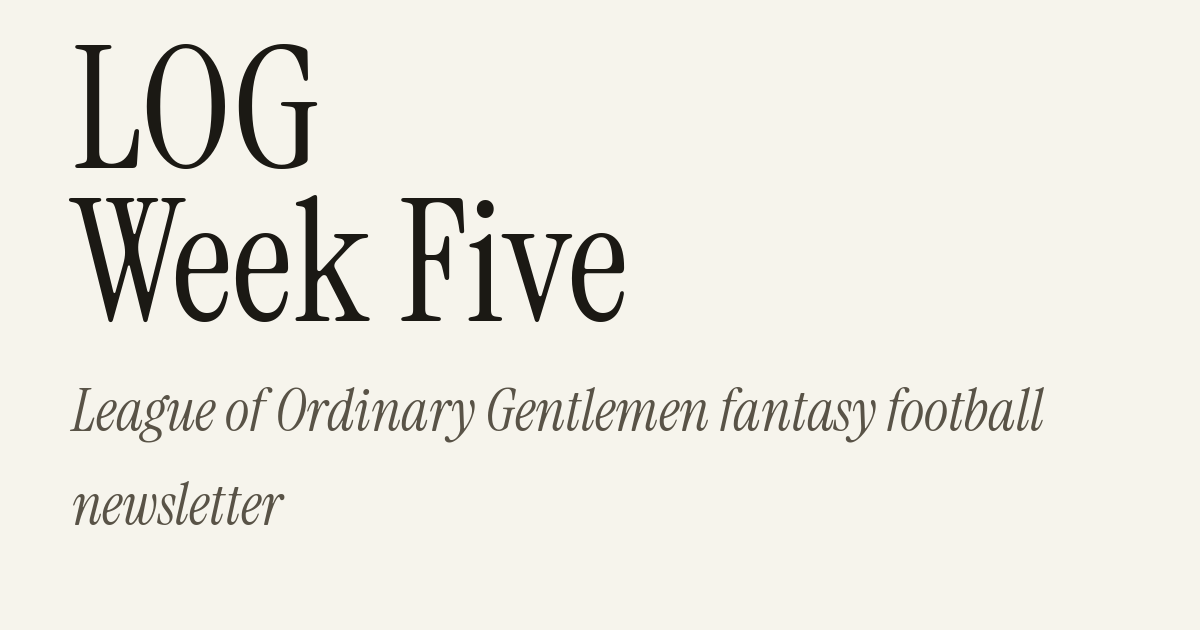
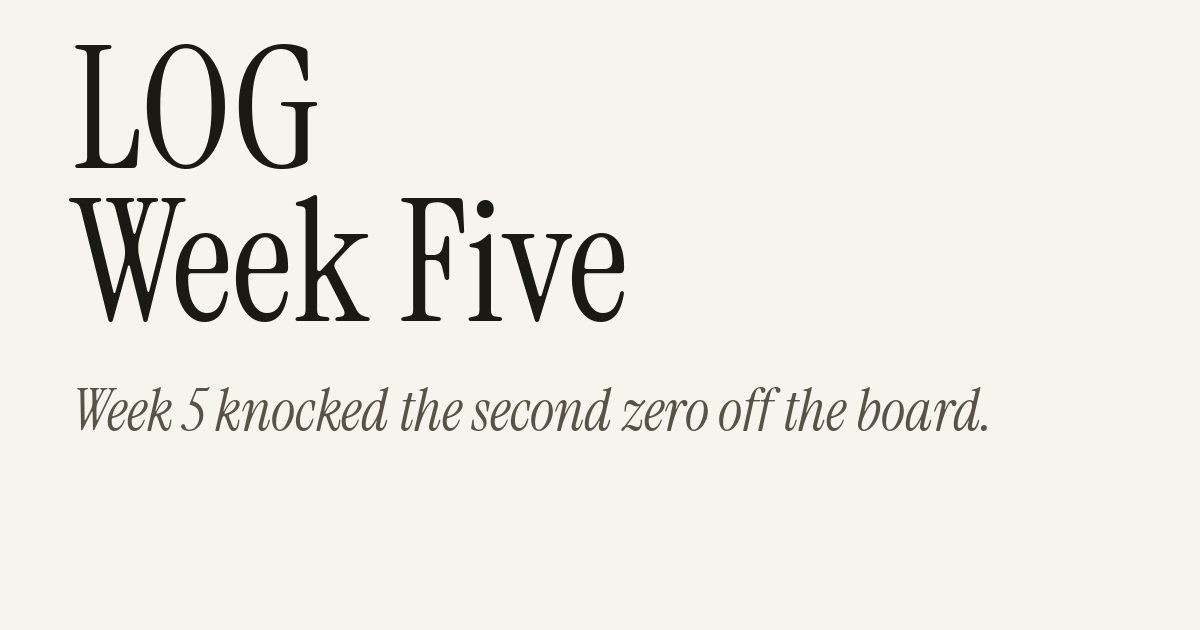
LOG OG cards: show each week's title line
The card keeps LOG / Week N and draws that week's title line under it,
read from log.ogTitleLine, then pullQuote, then log.pullQuote, then
log.lede. If all are blank, it falls back to the shared newsletter
subtitle. Weeks 1 through 9 are re-rendered.

Changed region(s): [[0.0617, 0.6032, 0.8633, 0.6937], [0.0617, 0.7841, 0.2467, 0.8444]]

diff --git a/scripts/render-log-og.py b/scripts/render-log-og.py
@@ -7,18 +7,28 @@ Commit the PNG so CI does not need fonts or network access.
 Usage:
   python3 scripts/render-log-og.py 2
 
+The italic line under "LOG / Week N" is that week's title line, read from
+the week's post front matter in this order: log.ogTitleLine, pullQuote,
+log.pullQuote, log.lede. If all are blank, the card uses the shared
+two-line newsletter subtitle.
+
 Requires Pillow (`pip install pillow`). Instrument Serif is vendored in
 scripts/fonts/ (SIL Open Font License, see OFL.txt). The week word comes
 from log-lib.js so the card matches the masthead.
 """
 
+from __future__ import annotations
+
 import argparse
+import re
 import subprocess
+import sys
 from pathlib import Path
 
 ROOT = Path(__file__).resolve().parents[1]
 FONT_DIR = ROOT / "scripts" / "fonts"
 OUT_DIR = ROOT / "src" / "assets" / "og"
+POSTS_DIR = ROOT / "src" / "posts"
 
 WIDTH = 1200
 HEIGHT = 630
@@ -28,9 +38,14 @@ INK = (0x1B, 0x19, 0x14)
 MUTED = (0x59, 0x53, 0x47)
 DISPLAY_SIZE = 170
 ITALIC_SIZE = 58
+ITALIC_MIN = 44
 LEFT = 72
+RIGHT = 72
+MAX_WIDTH = WIDTH - LEFT - RIGHT
 LOG_BASELINE = 168
 SUB_BASELINE = 430
+BOTTOM_PAD = 36
+MAX_LINES = 3
 SUBTITLE = (
     "League of Ordinary Gentlemen fantasy football",
     "newsletter",
@@ -55,7 +70,139 @@ def week_word(week: int) -> str:
     return word
 
 
-def render(week: int, out_path: Path) -> None:
+def unquote(value: str) -> str:
+    text = value.strip()
+    if len(text) >= 2 and text[0] == text[-1] and text[0] in ('"', "'"):
+        quote = text[0]
+        text = text[1:-1]
+        text = text.replace("\\" + quote, quote).replace("\\n", "\n")
+    return text.strip()
+
+
+def top_scalar(front_matter: str, key: str) -> str:
+    match = re.search(rf"^{re.escape(key)}:\s*(.*)$", front_matter, re.M)
+    if not match:
+        return ""
+    return unquote(match.group(1))
+
+
+def log_scalar(front_matter: str, key: str) -> str:
+    in_log = False
+    for line in front_matter.splitlines():
+        if re.match(r"^log:\s*$", line):
+            in_log = True
+            continue
+        if not in_log:
+            continue
+        if line and not line.startswith(" ") and not line.startswith("\t"):
+            in_log = False
+            continue
+        match = re.match(rf"^  {re.escape(key)}:\s*(.*)$", line)
+        if match:
+            raw = match.group(1).strip()
+            if raw in ("", "|", ">", ">-", "|-"):
+                return ""
+            return unquote(raw)
+    return ""
+
+
+def find_week_post(week: int) -> Path | None:
+    matches = sorted(POSTS_DIR.glob(f"*-log-week-{week}.md"))
+    if not matches:
+        return None
+    return matches[-1]
+
+
+def title_line_from_post(week: int) -> tuple[str, str]:
+    """Return (line, source). Source is the field name, or empty if fallback."""
+    path = find_week_post(week)
+    if path is None:
+        return "", "fallback"
+    text = path.read_text(encoding="utf-8")
+    if not text.startswith("---"):
+        return "", "fallback"
+    parts = text.split("---", 2)
+    if len(parts) < 3:
+        return "", "fallback"
+    front = parts[1]
+    candidates = (
+        (log_scalar(front, "ogTitleLine"), "log.ogTitleLine"),
+        (top_scalar(front, "pullQuote"), "pullQuote"),
+        (log_scalar(front, "pullQuote"), "log.pullQuote"),
+        (log_scalar(front, "lede"), "log.lede"),
+    )
+    for value, source in candidates:
+        if value:
+            return value, source
+    return "", "fallback"
+
+
+def text_width(font, text: str) -> int:
+    left, _top, right, _bottom = font.getbbox(text)
+    return right - left
+
+
+def greedy_wrap(text: str, font, max_width: int) -> list[str]:
+    words = text.split()
+    lines: list[str] = []
+    current = ""
+    for word in words:
+        trial = word if not current else f"{current} {word}"
+        if text_width(font, trial) <= max_width:
+            current = trial
+        else:
+            if current:
+                lines.append(current)
+            current = word
+    if current:
+        lines.append(current)
+    return lines
+
+
+def wrap_title(text: str, font, max_width: int) -> list[str]:
+    if text_width(font, text) <= max_width:
+        return [text]
+    if ", " in text:
+        idx = text.find(", ")
+        left = text[: idx + 1]
+        right = text[idx + 2 :]
+        if (
+            left
+            and right
+            and text_width(font, left) <= max_width
+            and text_width(font, right) <= max_width
+        ):
+            return [left, right]
+    return greedy_wrap(text, font, max_width)
+
+
+def layout_title(text: str):
+    from PIL import ImageFont
+
+    size = ITALIC_SIZE
+    while size >= ITALIC_MIN:
+        font = ImageFont.truetype(str(FONT_DIR / "InstrumentSerif-Italic.ttf"), size)
+        lines = wrap_title(text, font, MAX_WIDTH)
+        if len(lines) <= MAX_LINES and all(
+            text_width(font, line) <= MAX_WIDTH for line in lines
+        ):
+            return font, lines, size, False
+        size -= 2
+    font = ImageFont.truetype(str(FONT_DIR / "InstrumentSerif-Italic.ttf"), ITALIC_MIN)
+    lines = greedy_wrap(text, font, MAX_WIDTH)
+    truncated = False
+    if len(lines) > MAX_LINES:
+        kept = lines[:MAX_LINES]
+        last = kept[-1].rstrip()
+        while last and text_width(font, last + "...") > MAX_WIDTH:
+            last = last.rsplit(" ", 1)[0] if " " in last else last[:-1]
+        kept[-1] = (last + "...").rstrip()
+        lines = kept
+        truncated = True
+    return font, lines, ITALIC_MIN, truncated
+
+
+def render(week: int, out_path: Path) -> dict:
     try:
         from PIL import Image, ImageDraw, ImageFont
     except ModuleNotFoundError as error:
@@ -63,9 +210,6 @@ def render(week: int, out_path: Path) -> None:
 
     regular = ImageFont.truetype(
         str(FONT_DIR / "InstrumentSerif-Regular.ttf"), DISPLAY_SIZE
-    )
-    italic = ImageFont.truetype(
-        str(FONT_DIR / "InstrumentSerif-Italic.ttf"), ITALIC_SIZE
     )
     label = week_word(week)
     image = Image.new("RGB", (WIDTH, HEIGHT), BG)
@@ -78,16 +222,62 @@ def render(week: int, out_path: Path) -> None:
         fill=INK,
         anchor="ls",
     )
-    draw.text((LEFT, SUB_BASELINE), SUBTITLE[0], font=italic, fill=MUTED, anchor="ls")
-    draw.text(
-        (LEFT, SUB_BASELINE + round(ITALIC_SIZE * 1.62)),
-        SUBTITLE[1],
-        font=italic,
-        fill=MUTED,
-        anchor="ls",
-    )
+
+    line, source = title_line_from_post(week)
+    info = {
+        "week": week,
+        "source": source,
+        "line": line,
+        "size": ITALIC_SIZE,
+        "lines": [],
+        "shrunk": False,
+        "truncated": False,
+        "fallback": source == "fallback" or not line,
+    }
+
+    if line:
+        font, lines, size, truncated = layout_title(line)
+        ratio = 1.62 if len(lines) <= 2 else 1.35
+        advance = round(size * ratio)
+        _ascent, descent = font.getmetrics()
+        last_baseline = HEIGHT - BOTTOM_PAD - descent
+        first = last_baseline - advance * (len(lines) - 1)
+        if len(lines) <= 2:
+            first = SUB_BASELINE
+        for index, wrapped in enumerate(lines):
+            draw.text(
+                (LEFT, first + index * advance),
+                wrapped,
+                font=font,
+                fill=MUTED,
+                anchor="ls",
+            )
+        info.update(
+            {
+                "size": size,
+                "lines": lines,
+                "shrunk": size < ITALIC_SIZE,
+                "truncated": truncated,
+                "fallback": False,
+            }
+        )
+    else:
+        italic = ImageFont.truetype(
+            str(FONT_DIR / "InstrumentSerif-Italic.ttf"), ITALIC_SIZE
+        )
+        draw.text((LEFT, SUB_BASELINE), SUBTITLE[0], font=italic, fill=MUTED, anchor="ls")
+        draw.text(
+            (LEFT, SUB_BASELINE + round(ITALIC_SIZE * 1.62)),
+            SUBTITLE[1],
+            font=italic,
+            fill=MUTED,
+            anchor="ls",
+        )
+        info["lines"] = list(SUBTITLE)
+
     out_path.parent.mkdir(parents=True, exist_ok=True)
     image.save(out_path, "PNG", optimize=True)
+    return info
 
 
 def main() -> None:
@@ -104,8 +294,20 @@ def main() -> None:
     out_path = args.out or (OUT_DIR / f"log-week-{args.week}.png")
     if not out_path.is_absolute():
         out_path = ROOT / out_path
-    render(args.week, out_path)
-    print(out_path.relative_to(ROOT))
+    info = render(args.week, out_path)
+    print(out_path.relative_to(ROOT) if out_path.is_relative_to(ROOT) else out_path)
+    status = info["source"]
+    extras = []
+    if info["fallback"]:
+        extras.append("fallback subtitle")
+    if info["shrunk"]:
+        extras.append(f"shrunk to {info['size']}pt")
+    if info["truncated"]:
+        extras.append("truncated")
+    extra = f" ({', '.join(extras)})" if extras else ""
+    print(f"week {info['week']}: {status}, {info['size']}pt, {len(info['lines'])} line(s){extra}")
+    for wrapped in info["lines"]:
+        print(f"  {wrapped}")
 
 
 if __name__ == "__main__":

diff --git a/docs/log.md b/docs/log.md
@@ -83,7 +83,16 @@ Posts get Open Graph and Twitter card tags from `src/_includes/layouts/base.njk`
 
 Override the path with front matter `ogImage` or `log.ogImage` (root-relative or absolute). Leave both unset to use the week file.
 
-Render the next cream card (Instrument Serif, 1200×630). This is not part of `npm run build`, so CI does not need the fonts:
+The cream card (Instrument Serif, 1200×630) keeps "LOG / Week N" and draws that week's title line underneath, in place of the shared newsletter subtitle. The render script reads the line from the week's post, in this order:
+
+1. `log.ogTitleLine` (optional override)
+2. `pullQuote`
+3. `log.pullQuote`
+4. `log.lede`
+
+If all of those are blank, the card falls back to the shared two-line subtitle, "League of Ordinary Gentlemen fantasy football newsletter." Long lines wrap onto up to three lines, at the same 58pt italic as the old subtitle. The script prefers a comma break when both sides fit. If a line still does not fit, it steps the size down to 44pt, then truncates the last line. Do not use em dashes in the title line.
+
+This is not part of `npm run build`, so CI does not need the fonts:
 
 ```bash
 python3 scripts/render-log-og.py 3
